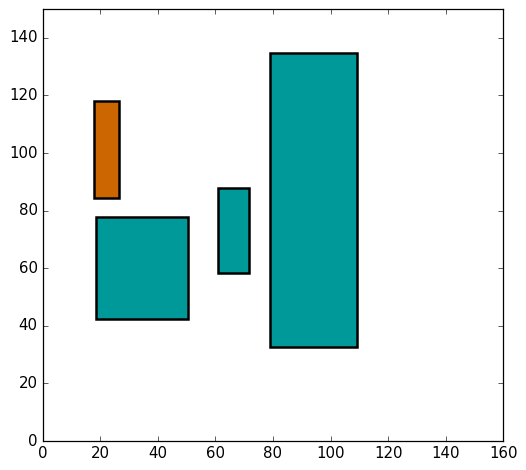
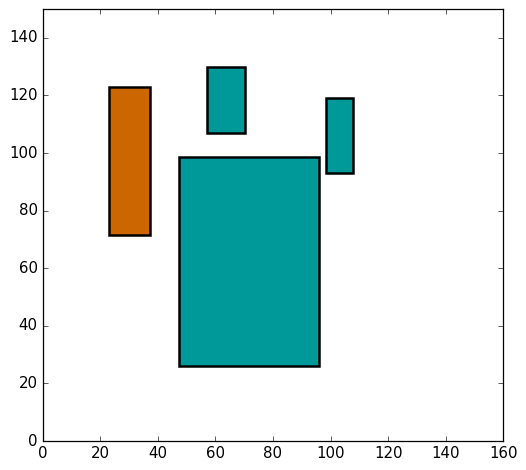
update water

Changed region(s): [[0.1521, 0.0894, 0.6996, 0.8043]]

diff --git a/Python code/test_main.py b/Python code/test_main.py
@@ -96,118 +96,112 @@ for k in range(nr_tests):
     for w in water:
         print "element water", w.x_min, w.y_min
 
-    # # one house has been already made
-    # i = 0
+    # one house has been already made
+    i = 0
 
-    # # type_total holds number of houses needed to be made of certain type. Instantiate with type maison.
-    # type_total = mais_total
-    # type_house = mais
+    # type_total holds number of houses needed to be made of certain type. Instantiate with type maison.
+    type_total = mais_total
+    type_house = mais
 
-    # # loop over maximal number of houses of this type
-    # while i < type_total:
+    # loop over maximal number of houses of this type
+    while i < type_total:
 
-    #     # generate a new random position
-    #     x_min = random.randrange(getFreespace(type_house), 2 * \
-    #         (bound_x - width_maison - 1)) * 0.5
-    #     y_min = random.randrange(getFreespace(type_house), 2 * \
-    #         (bound_y - height_maison - 1)) * 0.5
+        # generate a new random position
+        x_min = random.randrange(getFreespace(type_house), 2 * \
+            (bound_x - width_maison - 1)) * 0.5
+        y_min = random.randrange(getFreespace(type_house), 2 * \
+            (bound_y - height_maison - 1)) * 0.5
             
-    #     # get specifics of house we check against 
-    #     new = House(x_min, y_min, type_house)
+        # get specifics of house we check against 
+        new = House(x_min, y_min, type_house)
 
-    #     # if water doesn't overlap water
-    #     if distanceWater(new, water) == True:
+        # if water doesn't overlap water
+        print "true or not? ", distanceWater(new, water) == True
+        if distanceWater(new, water) == True:
 
-    #         # if there are any houses to check against
-    #         if len(houses) > 0:
+            # if there are any houses to check against
+            if len(houses) > 0:
 
-    #             # if house didn't overlap in any case, add house to list
-    #             smallest_dist = distance(new, houses)
-    #             if smallest_dist > 0:
-    #                 house = new.updateDistance(smallest_dist)
-    #                 houses.append(new)
-    #                 i += 1
+                # if house didn't overlap in any case, add house to list
+                smallest_dist = distance(new, houses)
+                if smallest_dist > 0:
+                    house = new.updateDistance(smallest_dist)
+                    houses.append(new)
+                    i += 1
 
-    #             # set type_total to number of next type of houses 
-    #             if i == type_total:
-    #                 if type_house == mais:
-    #                     type_house = bung
+                # set type_total to number of next type of houses 
+                if i == type_total:
+                    if type_house == mais:
+                        type_house = bung
 
-    #                     # start loop of placing houses again
-    #                     i = 0
-    #                     type_total = bung_total
+                        # start loop of placing houses again
+                        i = 0
+                        type_total = bung_total
 
-    #                 elif type_house == bung:
-    #                     type_house = egw
-    #                     type_total = egw_total
+                    elif type_house == bung:
+                        type_house = egw
+                        type_total = egw_total
 
-    #                     # start loop of placing houses again
-    #                     i = 0 
-    #         else:
-    #             houses.append(new)
-    #             i += 1
+                        # start loop of placing houses again
+                        i = 0 
+            else:
+                houses.append(new)
+                i += 1
     
-    # print "all houses"
+    print "all houses"
 
-    # for h in houses:
-    #     print "house x = ", h.x_min
+    for h in houses:
+        print "house x = ", h.x_min
 
-    # # Calculate total value of Amstelhaege
-    # for k in range(len(houses)):
-    #     extraspace = math.floor(houses[k].getDistance() - houses[k].getFreespace())
+    # Calculate total value of Amstelhaege
+    for k in range(len(houses)):
+        extraspace = math.floor(houses[k].getDistance() - houses[k].getFreespace())
         
-    #     # value of eengezinswoningen
-    #     if houses[k].type_house == egw:
-    #         value = 285000 * (1 + (0.03 * extraspace))
+        # value of eengezinswoningen
+        if houses[k].type_house == egw:
+            value = 285000 * (1 + (0.03 * extraspace))
 
-    #     # value of bungalows
-    #     elif houses[k].type_house == bung:
-    #         value = 399000 * (1 + (0.04 * extraspace))
+        # value of bungalows
+        elif houses[k].type_house == bung:
+            value = 399000 * (1 + (0.04 * extraspace))
 
-    #     # value of maisons
-    #     elif houses[k].type_house == mais:
-    #         value = 610000 * (1 + (0.06 * extraspace))
+        # value of maisons
+        elif houses[k].type_house == mais:
+            value = 610000 * (1 + (0.06 * extraspace))
         
-    #     # total value is addition of values per loop
-    #     total_value += value
+        # total value is addition of values per loop
+        total_value += value
         
-    # # initiate the best list and update in later sessions
-    # best_value.append(total_value)
+    # initiate the best list and update in later sessions
+    best_value.append(total_value)
 
     #save houses-array in list 
     fill = houses + water
     all_maps.append(fill)
 
-# # find map with highest value from tests
-# highest = max(best_value)
-# index_high = best_value.index(highest)
+# find map with highest value from tests
+highest = max(best_value)
+index_high = best_value.index(highest)
 
-# # find map with lowest value from tests
-# lowest = min(best_value)
-# index_low = best_value.index(lowest)
+# find map with lowest value from tests
+lowest = min(best_value)
+index_low = best_value.index(lowest)
 
-# # calculate mean map value of tests
-# mean_value = sum(best_value) / len(best_value)
+# calculate mean map value of tests
+mean_value = sum(best_value) / len(best_value)
 
-# # save date/time to name plot
-# time = datetime.datetime.now().strftime("%I%M_%B_%d_")
+# save date/time to name plot
+time = datetime.datetime.now().strftime("%I%M_%B_%d_")
 
-# # names of figures:
-# # hourminute_month_day_amountofhouses_best/worst_nr.oftests_value.of.map
-# name1 = time + str(houses_total) + "bestof" + str(nr_tests) + "_" + str(highest)
-# name2 = time + str(houses_total) + "worstof" + str(nr_tests) + "_" + str(lowest)
+# names of figures:
+# hourminute_month_day_amountofhouses_best/worst_nr.oftests_value.of.map
+name1 = time + str(houses_total) + "bestof" + str(nr_tests) + "_" + str(highest)
+name2 = time + str(houses_total) + "worstof" + str(nr_tests) + "_" + str(lowest)
 
-# # plot best and worst map
-# print "len fill = ", len(fill)
-# plotmap(len(fill), index_high, all_maps, name1, houses_total)
-# plotmap(len(fill), index_low, all_maps, name2, houses_total)
-
-name1 = "test1"
-name2 = "test2"
-
-plotmap(len(fill), 1, all_maps, name1, houses_total)
-plotmap(len(fill), 1, all_maps, name2, houses_total)
-
+# plot best and worst map
+print "len fill = ", len(fill)
+plotmap(len(fill), index_high, all_maps, name1, houses_total)
+plotmap(len(fill), index_low, all_maps, name2, houses_total)
 
 
 

diff --git a/Python code/water.py b/Python code/water.py
@@ -59,7 +59,7 @@ class Water(object):
         height = 10000
 
         # find right proportions
-        while (height + y_min > 150) or surface_taken > surface_total + pieces_to_go * 4:    
+        while (height + y_min > 150) or new_surface_taken > surface_total + pieces_to_go * 4:    
 
             # give ratio
             ratio = random.randrange(10, 40) * 0.1
@@ -69,11 +69,13 @@ class Water(object):
                 surface = random.randrange(400, 4400) / (pieces_of_water - piece_of_water)
                 width = (surface / ratio) ** 0.5
                 height = width * ratio 
+                new_surface_taken = surface_taken + surface
             else:
                 print "surface taken, total = ", surface_taken, surface_total
                 width = ((surface_total - surface_taken) / ratio)**0.5
                 height = width * ratio
-                surface = width * height       
+                surface = width * height  
+                new_surface_taken = surface_taken + surface     
         
         self.x_max = x_min + width
         self.y_max = y_min + height 
@@ -103,7 +105,7 @@ def distanceWater(obj, water):
             distance_x = 1
 
         if distance_x < 0:
-            print "in horizontal band"
+            # print "in horizontal band"
             return False
         
         # check vertical band  
@@ -119,13 +121,13 @@ def distanceWater(obj, water):
             distance_y = 1
 
         if distance_y < 0:
-            print "in vert band"
+            # print "in vert band"
             return False   
 
         # if object is in both horizontal and vertical band of water object
         # they overlap... so return False
         if distance_y == 1 and distance_x == 1:
-            print "overlap"
+            # print "overlap"
             return False
 
     return True
